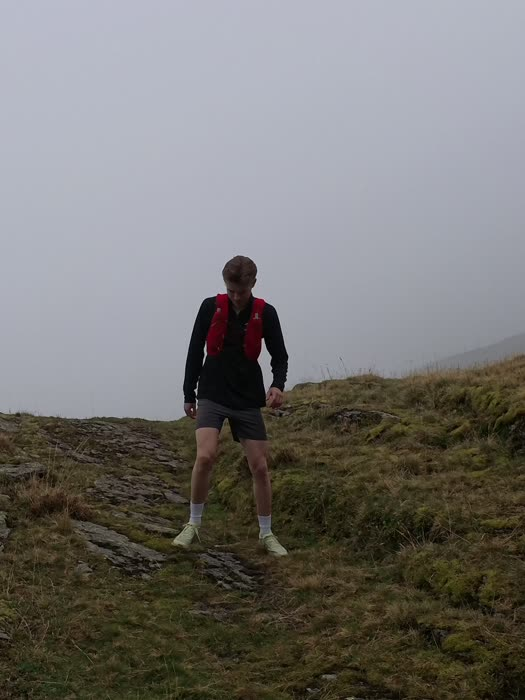
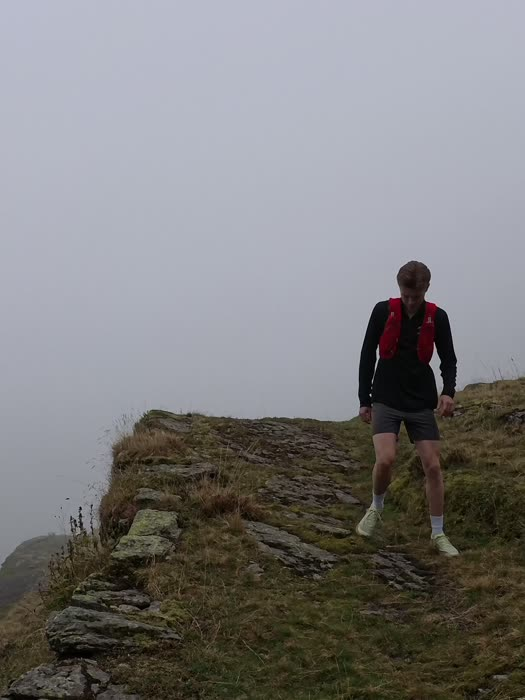
Aer : coins du téléphone propres, cinq photos de test différentes, bouton d'envoi et micro iOS

Changed region(s): [[0.0, 0.36, 1.0, 1.0]]

diff --git a/src/static/css/style.css b/src/static/css/style.css
@@ -222,7 +222,8 @@ img { display: block; max-width: 100%; }
    fil de messages, champ de saisie, barre d'accueil. Les messages poussent les précédents vers le haut */
 .chat { position: relative; margin: 30px 0 60px; aspect-ratio: 16 / 10; overflow: hidden; background: #f2f2f2; }
 .chat__phone { position: absolute; left: 50%; top: 0; bottom: 7%; width: min(330px, 78%); translate: -50% 0; display: flex; flex-direction: column;
-  background: #fff; border: 9px solid #111; border-top: 0; border-radius: 0 0 48px 48px; box-shadow: 0 30px 60px rgba(0, 0, 0, .12); }
+  background: #fff; border: 9px solid #111; border-top: 0; border-radius: 0 0 48px 48px; box-shadow: 0 30px 60px rgba(0, 0, 0, .12);
+  overflow: hidden; }   /* l'écran suit l'arrondi intérieur du cadre : rien ne déborde dans les coins */
 .chat__thread { flex: 1; display: flex; flex-direction: column; justify-content: flex-end; overflow: hidden; padding: 0 14px 6px;
   -webkit-mask: linear-gradient(transparent, #000 18%); mask: linear-gradient(transparent, #000 18%); }
 .chat__time { margin: 0; padding-bottom: 8px; text-align: center; font-size: 10px; color: #8e8e93; }
@@ -273,9 +274,13 @@ img { display: block; max-width: 100%; }
 .chat__field.has-draft .chat__ph { display: none; }
 .chat__draft { display: flex; flex-wrap: wrap; gap: 4px; }
 .chat__draft img { flex: none; width: 30px; height: 30px; object-fit: cover; border-radius: 7px; }
-.chat__send { position: absolute; right: 3px; bottom: 3px; width: 24px; height: 24px; border-radius: 50%; background: #0b84ff; opacity: 0; scale: .5; transition: opacity .15s, scale .2s cubic-bezier(.34, 1.56, .64, 1); }
-.chat__send::after { content: ""; position: absolute; left: 50%; top: 50%; width: 7px; height: 7px; border: solid #fff; border-width: 2px 0 0 2px; translate: -50% -25%; rotate: 45deg; }
+/* Bouton d'envoi iOS : flèche blanche dans un rond bleu, à la place du micro dès qu'il y a quelque chose à envoyer */
+.chat__send, .chat__mic { position: absolute; right: 3px; bottom: 3px; width: 24px; height: 24px; }
+.chat__send svg, .chat__mic svg { display: block; width: 100%; height: 100%; }
+.chat__mic { right: 6px; bottom: 5px; width: 20px; height: 20px; color: #8e8e93; transition: opacity .12s; }
+.chat__send { opacity: 0; scale: .4; transition: opacity .12s, scale .25s cubic-bezier(.34, 1.56, .64, 1); }
 .chat__field.has-draft .chat__send { opacity: 1; scale: 1; }
+.chat__field.has-draft .chat__mic { opacity: 0; }
 .chat__home { flex: none; align-self: center; width: 110px; height: 4px; margin: 2px 0 8px; border-radius: 4px; background: #111; }
 /* Lecture : un message caché ne prend pas de place ; à son tour il s'ouvre et la bulle apparaît avec un petit ressort */
 .chat.is-playing .msg { max-height: 0; overflow: hidden; transition: max-height .35s cubic-bezier(.2, .8, .2, 1), padding .35s cubic-bezier(.2, .8, .2, 1); }

diff --git a/src/partials/hero-aerrunning.html b/src/partials/hero-aerrunning.html
@@ -26,7 +26,7 @@
           </div>
           <div class="chat__bar" aria-hidden="true">
             <span class="chat__plus">+</span>
-            <span class="chat__field"><span class="chat__draft"></span><span class="chat__ph">iMessage</span><span class="chat__send"></span></span>
+            <span class="chat__field"><span class="chat__draft"></span><span class="chat__ph">iMessage</span><span class="chat__mic"><svg viewBox="0 0 24 24"><path d="M5 10v4M9 7v10M13 4v16M17 8v8M21 11v2" stroke="currentColor" stroke-width="2" stroke-linecap="round"/></svg></span><span class="chat__send"><svg viewBox="0 0 24 24"><circle cx="12" cy="12" r="12" fill="#0b84ff"/><path d="M12 17.5V7M7.6 11.2 12 6.8l4.4 4.4" fill="none" stroke="#fff" stroke-width="2.4" stroke-linecap="round" stroke-linejoin="round"/></svg></span></span>
           </div>
           <span class="chat__home" aria-hidden="true"></span>
         </div>
